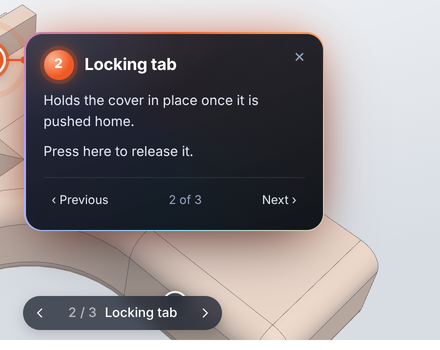
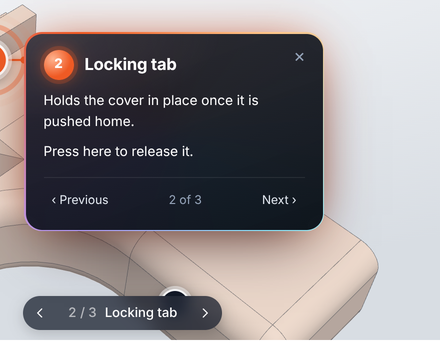
Add seven marker themes and make card text crisp white
New themes, each with its own markers, card, marker bar and entrance:
- fpv: quadcopter goggle on-screen display, blinking REC, signal glitch
- avionics: fixed-wing head-up display with a moving heading tape
- rover: ground vehicle, safety yellow, diamond plate, running tread
- thermal: ironbow thermal camera palette with hot-spot markers
- blueprint: engineering drawing with balloon callouts
- carbon: racing drone carbon fibre and red
- datasheet: black and amber with spaced monospace labels and an
  "F.01" index, after a product datasheet; --sv-datasheet-font sets the
  heading font

Description text on every dark card is now pure white without glows,
and cards use antialiased font rendering, so text stays crisp. The
README gallery and the demo's style switcher include all eleven themes.

Claude-Session: https://claude.ai/code/session_01VoExV5wzv8fyzTPo7h5v6t

diff --git a/step-viewer.js b/step-viewer.js
@@ -73,7 +73,7 @@
     pivot: 'rotate',       // centre of rotation indicator: 'rotate' (while turning), 'always' or 'off'
     markers: null,         // hotspots: URL of a JSON file, or an array (see README)
     editor: false,         // marker editor: click the model to place markers and copy their JSON
-    theme: 'default',      // look of markers and cards: default | digital | military | agricultural
+    theme: 'default',      // markers and cards: default | digital | military | agricultural | fpv | avionics | rover | thermal | blueprint | carbon | datasheet
   };
   // Site-wide defaults, e.g. window.StepViewerConfig = { defaults: { download: false } }
   if (config.defaults) Object.assign(DEFAULTS, config.defaults);
@@ -395,6 +395,272 @@
 .sv-theme-agricultural .sv-overlay .sv-leader-end{fill:#d9a441}
 @keyframes sv-ag-in{0%{opacity:0;transform:translateY(34px) scale(.3) rotate(5deg)}55%{opacity:1;transform:translateY(-6px) scale(1.04) rotate(-1deg)}100%{opacity:1;transform:none}}
 @keyframes sv-ag-sun{to{transform:none;opacity:1}}
+/* ---- Theme: fpv (quadcopter goggles: on-screen display over analogue video) ---- */
+.sv-theme-fpv{--sv-accent:#ff3b30}
+.sv-theme-fpv .sv-card{border-radius:4px;padding:1px;background:rgba(255,255,255,.45);box-shadow:0 10px 30px -10px rgba(0,0,0,.6);
+  font-family:ui-monospace,SFMono-Regular,Menlo,Consolas,monospace;animation:sv-fpv-in .6s steps(1,end) both}
+.sv-theme-fpv .sv-card.sv-out{animation:sv-fpv-out .2s steps(2) both}
+.sv-theme-fpv .sv-card-body{border-radius:3px;padding:18px 18px 14px;color:#fff;
+  text-shadow:1px 1px 0 #000,-1px -1px 0 #000,1px -1px 0 #000,-1px 1px 0 #000;
+  background:repeating-linear-gradient(0deg,rgba(0,0,0,.28) 0 1px,transparent 1px 3px),
+    repeating-conic-gradient(rgba(255,255,255,.035) 0 25%,transparent 0 50%) 0 0/3px 3px,
+    linear-gradient(160deg,rgba(40,48,56,.72),rgba(8,10,12,.78));
+  -webkit-backdrop-filter:blur(3px) saturate(.6);backdrop-filter:blur(3px) saturate(.6)}
+.sv-theme-fpv .sv-card-body::before{content:"\\25CF  REC";inset:auto;top:12px;right:42px;width:auto;height:auto;transform:none;background:none;
+  color:#ff3b30;font:700 11px/1 ui-monospace,Menlo,Consolas,monospace;letter-spacing:.08em;animation:sv-blink 1.2s steps(1) infinite}
+.sv-theme-fpv .sv-card-body::after{content:"";position:absolute;inset:6px;pointer-events:none;opacity:.85;
+  background:linear-gradient(#fff,#fff) 0 0/12px 2px,linear-gradient(#fff,#fff) 0 0/2px 12px,
+    linear-gradient(#fff,#fff) 100% 0/12px 2px,linear-gradient(#fff,#fff) 100% 0/2px 12px,
+    linear-gradient(#fff,#fff) 0 100%/12px 2px,linear-gradient(#fff,#fff) 0 100%/2px 12px,
+    linear-gradient(#fff,#fff) 100% 100%/12px 2px,linear-gradient(#fff,#fff) 100% 100%/2px 12px;background-repeat:no-repeat;
+  filter:drop-shadow(1px 1px 0 #000)}
+.sv-theme-fpv .sv-card-head{padding-right:96px}
+.sv-theme-fpv .sv-card-num{border-radius:3px;width:34px;height:24px;font-size:0;background:rgba(0,0,0,.35);box-shadow:0 0 0 2px #fff,0 0 0 3px #000}
+.sv-theme-fpv .sv-card-num::after{content:attr(data-ref);font:700 13px/1 ui-monospace,Menlo,Consolas,monospace;color:#fff}
+.sv-theme-fpv .sv-card h3{font-size:15px;text-transform:uppercase;letter-spacing:.06em;color:#fff}
+.sv-theme-fpv .sv-card-meta{display:block;margin-top:8px;font-size:11px;letter-spacing:.04em;color:#e5e7eb}
+.sv-theme-fpv .sv-card-meta::before{content:"\\2316  "}
+.sv-theme-fpv .sv-card-text{color:#fff;font-size:13px}
+.sv-theme-fpv .sv-card-text a{color:#7dd3fc}
+.sv-theme-fpv .sv-card-close{color:#fff;border-radius:3px}
+.sv-theme-fpv .sv-card-close:hover{background:#ff3b30}
+.sv-theme-fpv .sv-card-foot{border-top:1px dashed rgba(255,255,255,.45);color:#d1d5db;text-transform:uppercase;font-size:11px;letter-spacing:.06em}
+.sv-theme-fpv .sv-card-foot button{color:#fff;border-radius:3px}
+.sv-theme-fpv .sv-card-foot button:hover{background:#ff3b30}
+.sv-theme-fpv .sv-marker{background:rgba(0,0,0,.45);border:2px solid #fff;color:#fff;font-family:ui-monospace,Menlo,Consolas,monospace;
+  text-shadow:1px 1px 0 #000;box-shadow:0 0 0 1px #000,0 2px 8px rgba(0,0,0,.5)}
+.sv-theme-fpv .sv-marker:hover,.sv-theme-fpv .sv-marker:focus-visible,.sv-theme-fpv .sv-marker.sv-active{background:#ff3b30}
+.sv-theme-fpv .sv-nav{border-radius:4px;background:rgba(10,12,14,.65);border:1px solid rgba(255,255,255,.45);font-family:ui-monospace,Menlo,Consolas,monospace;
+  text-shadow:1px 1px 0 #000;text-transform:uppercase;letter-spacing:.05em;font-size:12px}
+.sv-theme-fpv .sv-overlay .sv-leader{stroke:#fff;filter:drop-shadow(1px 1px 0 #000)}
+.sv-theme-fpv .sv-overlay .sv-leader-end{fill:#fff}
+@keyframes sv-fpv-in{0%{opacity:0}8%{opacity:1;transform:translateY(-8px);filter:contrast(3) brightness(1.8) grayscale(1)}
+  16%{opacity:.2;transform:translateX(6px)}24%{opacity:1;transform:none;filter:contrast(2) grayscale(.6)}34%{opacity:.5;transform:skewX(8deg)}
+  44%{opacity:1;transform:none;filter:none}58%{opacity:.75}66%{opacity:1}100%{opacity:1;transform:none;filter:none}}
+@keyframes sv-fpv-out{50%{opacity:.4;transform:translateX(-6px)}to{opacity:0}}
+/* ---- Theme: avionics (fixed-wing head-up display) ---- */
+.sv-theme-avionics{--sv-accent:#3dff7a}
+.sv-theme-avionics .sv-btn[aria-pressed="true"],.sv-theme-avionics .sv-btn[aria-expanded="true"]{color:#00200b}
+.sv-theme-avionics .sv-card{border-radius:0;padding:0;background:none;box-shadow:none;transform-origin:50% 50%!important;
+  font-family:ui-monospace,SFMono-Regular,Menlo,Consolas,monospace;filter:drop-shadow(0 0 6px rgba(61,255,122,.35));animation:sv-hud-in .7s cubic-bezier(.5,0,.2,1) both}
+.sv-theme-avionics .sv-card.sv-out{animation:sv-hud-out .25s ease-in both}
+.sv-theme-avionics .sv-card-body{border-radius:0;padding:34px 20px 16px;color:#c6ffd8;text-shadow:0 0 6px rgba(61,255,122,.55);
+  background:linear-gradient(180deg,rgba(0,24,10,.7),rgba(0,24,10,.5));-webkit-backdrop-filter:blur(5px);backdrop-filter:blur(5px)}
+.sv-theme-avionics .sv-card-body::before{inset:0 30px auto 30px;top:6px;height:16px;transform:none;opacity:.9;
+  background:repeating-linear-gradient(90deg,#3dff7a 0 1.5px,transparent 1.5px 60px) 0 100%/60px 16px repeat-x,
+    repeating-linear-gradient(90deg,#3dff7a 0 1.5px,transparent 1.5px 12px) 0 100%/12px 7px repeat-x;
+  -webkit-mask:linear-gradient(90deg,transparent,#000 20%,#000 80%,transparent);mask:linear-gradient(90deg,transparent,#000 20%,#000 80%,transparent);
+  animation:sv-hud-tape 7s linear infinite}
+.sv-theme-avionics .sv-card-body::after{content:"";position:absolute;inset:0;pointer-events:none;
+  background:linear-gradient(#3dff7a,#3dff7a) 0 0/18px 2px,linear-gradient(#3dff7a,#3dff7a) 0 0/2px 18px,
+    linear-gradient(#3dff7a,#3dff7a) 100% 0/18px 2px,linear-gradient(#3dff7a,#3dff7a) 100% 0/2px 18px,
+    linear-gradient(#3dff7a,#3dff7a) 0 100%/18px 2px,linear-gradient(#3dff7a,#3dff7a) 0 100%/2px 18px,
+    linear-gradient(#3dff7a,#3dff7a) 100% 100%/18px 2px,linear-gradient(#3dff7a,#3dff7a) 100% 100%/2px 18px,
+    linear-gradient(#3dff7a,#3dff7a) 50% 22px/2px 8px;background-repeat:no-repeat}
+.sv-theme-avionics .sv-card-num{border-radius:1px;width:22px;height:22px;margin:0 4px;font-size:0;background:transparent;transform:rotate(45deg);
+  box-shadow:0 0 0 2px #3dff7a,0 0 10px rgba(61,255,122,.6)}
+.sv-theme-avionics .sv-card-num::after{content:attr(data-ref);transform:rotate(-45deg);font:700 11px/1 ui-monospace,Menlo,Consolas,monospace;color:#3dff7a}
+.sv-theme-avionics .sv-card h3{color:#3dff7a;text-transform:uppercase;letter-spacing:.12em;font-size:15px}
+.sv-theme-avionics .sv-card-meta{display:block;margin-top:8px;font-size:11px;letter-spacing:.05em;color:#7dffa6}
+.sv-theme-avionics .sv-card-meta::before{content:"WPT \\25B8  "}
+.sv-theme-avionics .sv-card-text{color:#c6ffd8;font-size:13px}
+.sv-theme-avionics .sv-card-text a{color:#a7f3ff}
+.sv-theme-avionics .sv-card-close{top:30px;color:#3dff7a;border-radius:0}
+.sv-theme-avionics .sv-card-close:hover{background:#3dff7a;color:#00200b;text-shadow:none}
+.sv-theme-avionics .sv-card-foot{border-top:1px solid rgba(61,255,122,.4);color:#7dffa6;text-transform:uppercase;font-size:11px;letter-spacing:.08em}
+.sv-theme-avionics .sv-card-foot button{color:#3dff7a;border-radius:0}
+.sv-theme-avionics .sv-card-foot button:hover{background:#3dff7a;color:#00200b;text-shadow:none}
+.sv-theme-avionics .sv-reveal{animation-delay:calc(.4s + var(--d,0) * 90ms)}
+.sv-theme-avionics .sv-marker{border-radius:2px;background:rgba(0,24,10,.6);border:2px solid #3dff7a;color:#3dff7a;font-family:ui-monospace,Menlo,Consolas,monospace;
+  box-shadow:0 0 10px rgba(61,255,122,.6);text-shadow:0 0 4px rgba(61,255,122,.8)}
+.sv-theme-avionics .sv-marker:hover,.sv-theme-avionics .sv-marker:focus-visible,.sv-theme-avionics .sv-marker.sv-active{background:#3dff7a;color:#00200b;text-shadow:none}
+.sv-theme-avionics .sv-marker.sv-active::before,.sv-theme-avionics .sv-marker.sv-active::after{border-radius:2px}
+.sv-theme-avionics .sv-nav{border-radius:0;background:rgba(0,24,10,.75);color:#3dff7a;border:1px solid rgba(61,255,122,.6);font-family:ui-monospace,Menlo,Consolas,monospace;
+  text-transform:uppercase;letter-spacing:.08em;font-size:12px;text-shadow:0 0 6px rgba(61,255,122,.6)}
+.sv-theme-avionics .sv-nav button{border-radius:0}
+.sv-theme-avionics .sv-overlay .sv-leader{filter:drop-shadow(0 0 4px #3dff7a)}
+@keyframes sv-hud-in{0%{opacity:0;transform:scale(.04,.02)}30%{opacity:1;transform:scale(1,.02)}38%{opacity:.4}44%{opacity:1;transform:scale(1,.02)}100%{opacity:1;transform:none}}
+@keyframes sv-hud-out{to{opacity:0;transform:scale(1,.02)}}
+@keyframes sv-hud-tape{to{background-position:-60px 100%,-60px 100%}}
+/* ---- Theme: rover (unmanned ground vehicle) ---- */
+.sv-theme-rover{--sv-accent:#ffc400}
+.sv-theme-rover .sv-btn[aria-pressed="true"],.sv-theme-rover .sv-btn[aria-expanded="true"]{color:#1a1a1a}
+.sv-theme-rover .sv-card{border-radius:12px 12px 6px 6px;padding:2.5px;background:#ffc400;
+  box-shadow:0 18px 36px -14px rgba(0,0,0,.6),0 0 0 1px #1a1a1a;animation:sv-ugv-in .75s cubic-bezier(.2,.9,.3,1) both}
+.sv-theme-rover .sv-card.sv-out{animation:sv-ugv-out .25s ease-in both}
+.sv-theme-rover .sv-card-body{border-radius:10px 10px 4px 4px;padding:20px 20px 34px;color:#e5e7eb;
+  background:repeating-linear-gradient(45deg,rgba(255,255,255,.035) 0 3px,transparent 3px 14px),
+    repeating-linear-gradient(-45deg,rgba(255,255,255,.035) 0 3px,transparent 3px 14px),linear-gradient(180deg,#30343a,#1d2024);
+  -webkit-backdrop-filter:none;backdrop-filter:none}
+.sv-theme-rover .sv-card-body::before{inset:0;transform:none;animation:none;
+  background:radial-gradient(circle at 9px 9px,#a3a9b1 2.5px,#3a3f46 3px,transparent 3.5px),radial-gradient(circle at calc(100% - 9px) 9px,#a3a9b1 2.5px,#3a3f46 3px,transparent 3.5px)}
+.sv-theme-rover .sv-card-body::after{content:"";position:absolute;left:0;right:0;bottom:0;height:16px;pointer-events:none;border-top:2px solid #111;
+  background:repeating-linear-gradient(90deg,#4b5057 0 9px,#1f2226 9px 12px) 0 0/12px 100% repeat-x,#2a2d31;animation:sv-ugv-tread .9s linear infinite}
+.sv-theme-rover .sv-card-num{border-radius:0;width:32px;height:28px;background:#ffc400;color:#1a1a1a;box-shadow:none;
+  clip-path:polygon(25% 0,75% 0,100% 50%,75% 100%,25% 100%,0 50%)}
+.sv-theme-rover .sv-card h3{font-family:"Arial Narrow","Roboto Condensed","Helvetica Neue",Arial,sans-serif;font-weight:800;font-size:18px;
+  text-transform:uppercase;letter-spacing:.04em;color:#ffc400}
+.sv-theme-rover .sv-card-meta{display:block;margin-top:8px;font:600 11px/1.3 ui-monospace,Menlo,Consolas,monospace;color:#ffd84d;opacity:.85}
+.sv-theme-rover .sv-card-meta::before{content:"UNIT \\25B8  "}
+.sv-theme-rover .sv-card-text{color:#e5e7eb}
+.sv-theme-rover .sv-card-text a{color:#ffc400}
+.sv-theme-rover .sv-card-close{color:#ffc400}
+.sv-theme-rover .sv-card-close:hover{background:#ffc400;color:#1a1a1a}
+.sv-theme-rover .sv-card-foot{border-top:2px solid #3a3f46;color:#9ca3af;text-transform:uppercase;font-size:11px;letter-spacing:.08em}
+.sv-theme-rover .sv-card-foot button{color:#ffc400;font-weight:700}
+.sv-theme-rover .sv-card-foot button:hover{background:#ffc400;color:#1a1a1a}
+.sv-theme-rover .sv-marker{border-radius:7px;background:#ffc400;border:2px solid #1a1a1a;color:#1a1a1a;box-shadow:0 0 0 2px #ffc400,0 4px 10px rgba(0,0,0,.45)}
+.sv-theme-rover .sv-marker:hover,.sv-theme-rover .sv-marker:focus-visible,.sv-theme-rover .sv-marker.sv-active{background:#1a1a1a;color:#ffc400;border-color:#ffc400}
+.sv-theme-rover .sv-marker.sv-active::before,.sv-theme-rover .sv-marker.sv-active::after{border-radius:7px}
+.sv-theme-rover .sv-nav{border-radius:8px;background:#1d2024;color:#ffc400;border:2px solid #ffc400;text-transform:uppercase;letter-spacing:.06em;font-size:12px;font-weight:700}
+.sv-theme-rover .sv-nav button:hover{background:rgba(255,196,0,.2)}
+.sv-theme-rover .sv-overlay .sv-leader{filter:none;stroke-width:2.5}
+@keyframes sv-ugv-in{0%{opacity:0;transform:translateX(-70px)}55%{opacity:1;transform:translateX(8px)}70%{transform:translateX(-3px) rotate(-1.2deg)}85%{transform:translateX(1px) rotate(.4deg)}100%{opacity:1;transform:none}}
+@keyframes sv-ugv-out{to{opacity:0;transform:translateX(40px)}}
+@keyframes sv-ugv-tread{to{background-position:12px 0,0 0}}
+/* ---- Theme: thermal (infrared camera, ironbow palette) ---- */
+.sv-theme-thermal{--sv-accent:#ff7a00}
+.sv-theme-thermal .sv-btn[aria-pressed="true"],.sv-theme-thermal .sv-btn[aria-expanded="true"]{color:#1a0010}
+.sv-theme-thermal .sv-card{border-radius:12px;padding:2px;background:linear-gradient(90deg,#1b0036,#5b0a8f,#b3006b,#ff3d00,#ff9f00,#ffe8a0,#ff9f00,#ff3d00,#b3006b,#5b0a8f,#1b0036) 0 0/300% 100%;
+  box-shadow:0 20px 50px -18px rgba(90,0,60,.7),0 0 40px -12px #ff6a00;animation:sv-ir-in .9s ease-out both,sv-ir-flow 6s linear infinite}
+.sv-theme-thermal .sv-card.sv-out{animation:sv-ir-out .25s ease-in both}
+.sv-theme-thermal .sv-card-body{border-radius:10px;padding:16px 26px 18px 18px;color:#ffe9d6;
+  background:radial-gradient(120% 90% at 85% 0%,rgba(255,110,0,.2),transparent 55%),radial-gradient(90% 70% at 0% 100%,rgba(120,0,140,.35),transparent 60%),#12051f;
+  -webkit-backdrop-filter:none;backdrop-filter:none}
+.sv-theme-thermal .sv-card-body::before{inset:12px 8px 12px auto;width:6px;height:auto;transform:none;animation:none;border-radius:3px;
+  background:linear-gradient(to top,#1b0036,#5b0a8f,#b3006b,#ff3d00,#ff9f00,#fff6c8);box-shadow:0 0 8px rgba(255,120,0,.5)}
+.sv-theme-thermal .sv-card-num{background:radial-gradient(circle at 40% 35%,#fffbe0,#ffc400 30%,#ff3d00 60%,#7a0a7a 100%);color:#1a0010;
+  box-shadow:0 0 0 2px rgba(255,255,255,.85),0 0 18px rgba(255,120,0,.9)}
+.sv-theme-thermal .sv-card h3{color:#fff;text-shadow:0 0 14px rgba(255,120,0,.65)}
+.sv-theme-thermal .sv-card-meta{display:block;margin-top:8px;font:600 11px/1.3 ui-monospace,Menlo,Consolas,monospace;color:#ffb36b}
+.sv-theme-thermal .sv-card-meta::before{content:"\\25CE  SPOT \\25B8  "}
+.sv-theme-thermal .sv-card-text{color:#ffe9d6}
+.sv-theme-thermal .sv-card-text a{color:#ffc46b}
+.sv-theme-thermal .sv-card-close{right:20px;color:#ffb36b}
+.sv-theme-thermal .sv-card-close:hover{background:#ff6a00;color:#1a0010}
+.sv-theme-thermal .sv-card-foot{border-top:1px solid rgba(255,140,0,.28);color:#c9a0b8}
+.sv-theme-thermal .sv-card-foot button{color:#ffd0a0}
+.sv-theme-thermal .sv-card-foot button:hover{background:#ff6a00;color:#1a0010}
+.sv-theme-thermal .sv-marker{background:radial-gradient(circle at 40% 35%,#fffbe0,#ffc400 30%,#ff3d00 62%,#7a0a7a 100%);border:2px solid #fff;color:#1a0010;
+  box-shadow:0 0 16px rgba(255,110,0,.9),0 0 0 1px rgba(60,0,40,.5)}
+.sv-theme-thermal .sv-marker:hover,.sv-theme-thermal .sv-marker:focus-visible,.sv-theme-thermal .sv-marker.sv-active{background:radial-gradient(circle at 40% 35%,#fff,#fff3b0 35%,#ffb000 70%,#ff3d00 100%)}
+.sv-theme-thermal .sv-nav{background:#12051f;color:#ffe9d6;box-shadow:inset 0 -2px 0 #ff6a00,0 4px 14px rgba(90,0,60,.4)}
+.sv-theme-thermal .sv-nav button:hover{background:rgba(255,110,0,.25)}
+.sv-theme-thermal .sv-overlay .sv-leader{filter:drop-shadow(0 0 4px #ff6a00)}
+.sv-theme-thermal .sv-overlay .sv-leader-end{fill:#ffe8a0}
+@keyframes sv-ir-in{0%{opacity:0;transform:scale(1.15);filter:blur(16px) saturate(3) hue-rotate(-70deg)}55%{opacity:1;filter:blur(3px) saturate(1.6) hue-rotate(-20deg)}100%{opacity:1;transform:none;filter:none}}
+@keyframes sv-ir-out{to{opacity:0;filter:blur(10px) hue-rotate(60deg)}}
+@keyframes sv-ir-flow{to{background-position:100% 0}}
+/* ---- Theme: blueprint (engineering drawing) ---- */
+.sv-theme-blueprint{--sv-accent:#1d5fbf}
+.sv-theme-blueprint .sv-card{border-radius:2px;padding:0;background:#0f4c97;box-shadow:0 18px 40px -16px rgba(5,25,60,.65);transform-origin:0 50%!important;
+  animation:sv-bp-in .8s cubic-bezier(.6,0,.2,1) both}
+.sv-theme-blueprint .sv-card.sv-out{animation:sv-bp-out .3s ease-in both}
+.sv-theme-blueprint .sv-card-body{border-radius:2px;padding:20px 22px 18px;color:#e6efff;
+  background:linear-gradient(rgba(255,255,255,.1) 1px,transparent 1px) 0 0/20px 20px,linear-gradient(90deg,rgba(255,255,255,.1) 1px,transparent 1px) 0 0/20px 20px,
+    linear-gradient(rgba(255,255,255,.045) 1px,transparent 1px) 0 0/5px 5px,linear-gradient(90deg,rgba(255,255,255,.045) 1px,transparent 1px) 0 0/5px 5px,#0f4c97;
+  box-shadow:inset 0 0 0 6px #0f4c97,inset 0 0 0 7.5px rgba(255,255,255,.9),inset 0 0 0 10px #0f4c97,inset 0 0 0 11px rgba(255,255,255,.45);
+  -webkit-backdrop-filter:none;backdrop-filter:none}
+.sv-theme-blueprint .sv-card-body::before{display:none}
+.sv-theme-blueprint .sv-card-num{width:30px;height:30px;background:#0f4c97;color:#fff;font:600 13px/1 "Century Gothic","Futura","Avenir Next",sans-serif;
+  box-shadow:0 0 0 1.5px #fff}
+.sv-theme-blueprint .sv-card h3{font-family:"Century Gothic","Futura","Avenir Next","Segoe UI",sans-serif;font-weight:600;font-size:15px;text-transform:uppercase;letter-spacing:.14em;color:#fff}
+.sv-theme-blueprint .sv-card-meta{display:block;margin-top:10px;padding:4px 8px;border:1px solid rgba(255,255,255,.7);font:500 11px/1.3 ui-monospace,Menlo,Consolas,monospace;
+  color:#dbe8ff;letter-spacing:.04em}
+.sv-theme-blueprint .sv-card-meta::before{content:"DWG REF  "}
+.sv-theme-blueprint .sv-card-text{color:#e6efff;font-size:13.5px}
+.sv-theme-blueprint .sv-card-text a{color:#fff;text-decoration:underline}
+.sv-theme-blueprint .sv-card-close{top:14px;right:14px;color:#dbe8ff;border-radius:2px}
+.sv-theme-blueprint .sv-card-close:hover{background:#fff;color:#0f4c97}
+.sv-theme-blueprint .sv-card-foot{border-top:1px solid rgba(255,255,255,.55);color:#b9cff5;text-transform:uppercase;font-size:11px;letter-spacing:.12em}
+.sv-theme-blueprint .sv-card-foot button{color:#fff;border-radius:2px;letter-spacing:.1em}
+.sv-theme-blueprint .sv-card-foot button:hover{background:#fff;color:#0f4c97}
+.sv-theme-blueprint .sv-marker{background:#fff;border:2px solid #0f4c97;color:#0f4c97;font-family:"Century Gothic","Futura","Avenir Next",sans-serif;font-weight:600;
+  box-shadow:0 0 0 2px rgba(255,255,255,.8),0 3px 10px rgba(5,25,60,.4)}
+.sv-theme-blueprint .sv-marker:hover,.sv-theme-blueprint .sv-marker:focus-visible,.sv-theme-blueprint .sv-marker.sv-active{background:#0f4c97;color:#fff;border-color:#fff}
+.sv-theme-blueprint .sv-nav{border-radius:2px;background:#0f4c97;color:#fff;border:1px solid rgba(255,255,255,.8);text-transform:uppercase;letter-spacing:.1em;font-size:12px}
+.sv-theme-blueprint .sv-nav .sv-nav-title span{opacity:.7}
+.sv-theme-blueprint .sv-overlay .sv-leader{stroke:#0f4c97;stroke-width:1.5;filter:none}
+.sv-theme-blueprint .sv-overlay .sv-leader-end{fill:#0f4c97}
+@keyframes sv-bp-in{0%{opacity:0;clip-path:inset(0 100% 0 0)}10%{opacity:1}100%{opacity:1;clip-path:inset(0)}}
+@keyframes sv-bp-out{to{opacity:0;clip-path:inset(0 0 0 100%)}}
+/* ---- Theme: carbon (racing drone: carbon fibre and red) ---- */
+.sv-theme-carbon{--sv-accent:#ff2d3d}
+.sv-theme-carbon .sv-card{border-radius:14px 3px 14px 3px;padding:1.5px;background:linear-gradient(135deg,#ff2d3d,#5a0a12 40%,#ff2d3d 62%,#3a3a3a);
+  box-shadow:0 22px 46px -18px rgba(0,0,0,.75),0 0 30px -12px #ff2d3d;animation:sv-cf-in .6s cubic-bezier(.2,.9,.25,1) both}
+.sv-theme-carbon .sv-card.sv-out{animation:sv-cf-out .22s ease-in both}
+.sv-theme-carbon .sv-card-body{border-radius:12.5px 2px 12.5px 2px;padding:18px 20px 18px;color:#d6d6d6;
+  background:linear-gradient(27deg,#151515 5px,transparent 5px) 0 5px,linear-gradient(207deg,#151515 5px,transparent 5px) 10px 0,
+    linear-gradient(27deg,#232323 5px,transparent 5px) 0 10px,linear-gradient(207deg,#232323 5px,transparent 5px) 10px 5px,
+    linear-gradient(90deg,#1b1b1b 10px,transparent 10px),linear-gradient(#1d1d1d 25%,#1a1a1a 25%,#1a1a1a 50%,transparent 50%,transparent 75%,#242424 75%,#242424);
+  background-color:#131313;background-size:20px 20px;-webkit-backdrop-filter:none;backdrop-filter:none}
+.sv-theme-carbon .sv-card-body::before{background:linear-gradient(115deg,transparent 30%,rgba(255,255,255,.16) 45%,rgba(255,255,255,.03) 55%,transparent 65%)}
+.sv-theme-carbon .sv-card-body::after{content:"";position:absolute;left:0;top:0;width:90px;height:4px;pointer-events:none;
+  background:linear-gradient(90deg,#ff2d3d 0 30px,transparent 30px 36px,#ff2d3d 36px 52px,transparent 52px 58px,#ff2d3d 58px 64px,transparent 64px)}
+.sv-theme-carbon .sv-card-num{border-radius:4px;width:34px;height:26px;background:#ff2d3d;transform:skewX(-14deg);box-shadow:0 0 16px rgba(255,45,61,.6)}
+.sv-theme-carbon .sv-card h3{font-family:"Arial Black","Helvetica Neue",Arial,sans-serif;font-style:italic;font-weight:900;font-size:17px;text-transform:uppercase;letter-spacing:.02em;color:#fff}
+.sv-theme-carbon .sv-card-meta{display:block;margin-top:8px;font:600 11px/1.3 ui-monospace,Menlo,Consolas,monospace;color:#ff6b76}
+.sv-theme-carbon .sv-card-meta::before{content:"\\25C6  "}
+.sv-theme-carbon .sv-card-text{color:#d6d6d6}
+.sv-theme-carbon .sv-card-text a{color:#ff6b76}
+.sv-theme-carbon .sv-card-close:hover{background:#ff2d3d;color:#fff}
+.sv-theme-carbon .sv-card-foot{border-top:1px solid rgba(255,255,255,.1);color:#8a8a8a;font-style:italic;text-transform:uppercase;font-size:11px;letter-spacing:.06em}
+.sv-theme-carbon .sv-card-foot button{color:#fff;font-weight:700}
+.sv-theme-carbon .sv-card-foot button:hover{background:#ff2d3d}
+.sv-theme-carbon .sv-marker{background:#ff2d3d;border:2px solid #fff;color:#fff;font-style:italic;box-shadow:0 0 0 3px rgba(0,0,0,.55),0 4px 14px rgba(255,45,61,.55)}
+.sv-theme-carbon .sv-marker:hover,.sv-theme-carbon .sv-marker:focus-visible,.sv-theme-carbon .sv-marker.sv-active{background:#fff;color:#ff2d3d;border-color:#ff2d3d}
+.sv-theme-carbon .sv-nav{border-radius:10px 2px 10px 2px;background:#141414;color:#fff;box-shadow:inset 3px 0 0 #ff2d3d,0 4px 14px rgba(0,0,0,.4);font-style:italic;text-transform:uppercase;font-size:12px;font-weight:700}
+.sv-theme-carbon .sv-nav button:hover{background:rgba(255,45,61,.3)}
+@keyframes sv-cf-in{0%{opacity:0;transform:translateX(50px) skewX(-14deg);filter:blur(8px)}60%{opacity:1;transform:translateX(-5px) skewX(3deg);filter:none}100%{opacity:1;transform:none;filter:none}}
+@keyframes sv-cf-out{to{opacity:0;transform:translateX(-40px) skewX(10deg);filter:blur(4px)}}
+/* ---- Theme: datasheet (black and amber, spaced monospace labels, like a product datasheet) ---- */
+.sv-theme-datasheet{--sv-accent:#e8b23a}
+.sv-theme-datasheet .sv-btn[aria-pressed="true"],.sv-theme-datasheet .sv-btn[aria-expanded="true"]{color:#0a0a0a}
+.sv-theme-datasheet .sv-card{border-radius:2px;padding:1px;background:#262626;width:min(320px,calc(100% - 20px));
+  box-shadow:0 26px 52px -20px rgba(0,0,0,.75);animation:sv-ds-in .65s cubic-bezier(.2,.8,.2,1) both}
+.sv-theme-datasheet .sv-card.sv-out{animation:sv-ds-out .22s ease-in both}
+.sv-theme-datasheet .sv-card-body{display:flex;flex-direction:column;border-radius:1px;padding:18px 22px 16px;color:#fff;
+  background:radial-gradient(90% 70% at 100% 0%,rgba(232,178,58,.09),transparent 60%),#0a0a0a;-webkit-backdrop-filter:none;backdrop-filter:none}
+.sv-theme-datasheet .sv-card-body::before{display:none}
+.sv-theme-datasheet .sv-card-img{order:-2}
+.sv-theme-datasheet .sv-card-meta{display:block;order:-1;margin:0 26px 12px 0;font:500 10px/1.5 ui-monospace,SFMono-Regular,Menlo,Consolas,monospace;
+  letter-spacing:.2em;text-transform:uppercase;color:#e8b23a}
+.sv-theme-datasheet .sv-card-head{gap:10px;padding:12px 0 0;border-top:2px solid #e8b23a;align-items:baseline}
+.sv-theme-datasheet .sv-card-num{display:inline-block;width:auto;height:auto;border-radius:0;background:none;box-shadow:none;font-size:0}
+.sv-theme-datasheet .sv-card-num::before{content:"F." attr(data-ref);font:500 11px/1 ui-monospace,SFMono-Regular,Menlo,Consolas,monospace;letter-spacing:.1em;color:#e8b23a}
+.sv-theme-datasheet .sv-card h3{font-family:var(--sv-datasheet-font,"Michroma","Eurostile","Microgramma","Bank Gothic","Rajdhani",system-ui,-apple-system,"Segoe UI",Roboto,sans-serif);
+  font-size:19px;font-weight:700;letter-spacing:-.005em;color:#fff}
+.sv-theme-datasheet .sv-card-text{margin-top:10px;font-size:13.5px;line-height:1.6}
+.sv-theme-datasheet .sv-card-text a{color:#e8b23a}
+.sv-theme-datasheet .sv-card-close{top:12px;right:12px;border-radius:2px;color:#8c8c8c}
+.sv-theme-datasheet .sv-card-close:hover{background:#e8b23a;color:#0a0a0a}
+.sv-theme-datasheet .sv-card-foot{margin-top:16px;padding-top:10px;border-top:1px solid #262626;color:#8c8c8c;
+  font:500 10px/1 ui-monospace,SFMono-Regular,Menlo,Consolas,monospace;letter-spacing:.18em;text-transform:uppercase}
+.sv-theme-datasheet .sv-card-foot button{color:#fff;border-radius:2px;letter-spacing:.18em}
+.sv-theme-datasheet .sv-card-foot button:hover{background:#e8b23a;color:#0a0a0a}
+.sv-theme-datasheet .sv-card [contenteditable]{box-shadow:0 0 0 1px #333}
+.sv-theme-datasheet .sv-marker{border-radius:3px;background:#0a0a0a;border:1.5px solid #e8b23a;color:#fff;font-family:ui-monospace,SFMono-Regular,Menlo,Consolas,monospace;
+  font-weight:500;box-shadow:0 0 0 2px rgba(255,255,255,.55),0 4px 12px rgba(0,0,0,.45)}
+.sv-theme-datasheet .sv-marker:hover,.sv-theme-datasheet .sv-marker:focus-visible,.sv-theme-datasheet .sv-marker.sv-active{background:#e8b23a;color:#0a0a0a;border-color:#0a0a0a}
+.sv-theme-datasheet .sv-marker.sv-active::before,.sv-theme-datasheet .sv-marker.sv-active::after{border-radius:3px}
+.sv-theme-datasheet .sv-nav{border-radius:2px;background:#0a0a0a;color:#fff;border:1px solid #262626;font:500 11px/1 ui-monospace,SFMono-Regular,Menlo,Consolas,monospace;
+  letter-spacing:.16em;text-transform:uppercase}
+.sv-theme-datasheet .sv-nav button{border-radius:2px}
+.sv-theme-datasheet .sv-nav button:hover{background:rgba(232,178,58,.2)}
+.sv-theme-datasheet .sv-nav .sv-nav-title span{color:#e8b23a;opacity:1}
+.sv-theme-datasheet .sv-overlay .sv-leader{stroke-width:1.5;filter:none}
+@keyframes sv-ds-in{0%{opacity:0;transform:translateY(10px);clip-path:inset(0 0 100% 0)}100%{opacity:1;transform:none;clip-path:inset(0)}}
+@keyframes sv-ds-out{to{opacity:0;transform:translateY(6px)}}
+.sv-card{-webkit-font-smoothing:antialiased;-moz-osx-font-smoothing:grayscale}
+/* Description text: pure white with no glow on every dark card, so it stays crisp. */
+.sv-card .sv-card-text,.sv-theme-digital .sv-card-text,.sv-theme-military .sv-card-text,.sv-theme-fpv .sv-card-text,.sv-theme-avionics .sv-card-text,
+.sv-theme-rover .sv-card-text,.sv-theme-thermal .sv-card-text,.sv-theme-blueprint .sv-card-text,.sv-theme-carbon .sv-card-text,.sv-theme-datasheet .sv-card-text{color:#fff;text-shadow:none}
+.sv-theme-agricultural .sv-card-text{color:#3b3222}
+.sv-theme-fpv .sv-card-body{text-shadow:0 1px 0 rgba(0,0,0,.85)}
+.sv-theme-avionics .sv-card-body{text-shadow:none}
+.sv-theme-avionics .sv-card h3{text-shadow:0 0 3px rgba(61,255,122,.45)}
+.sv-theme-digital .sv-card h3{text-shadow:0 0 4px rgba(0,255,156,.5)}
+.sv-theme-thermal .sv-card h3{text-shadow:0 0 6px rgba(255,120,0,.5)}
 @media (prefers-reduced-motion:reduce){.sv-card-body::after,.sv-card h3::after{animation:none!important}}
 @media (prefers-reduced-motion:reduce){.sv-card,.sv-card-body::before,.sv-reveal,.sv-marker,.sv-marker::before,.sv-marker::after,.sv-overlay .sv-leader{animation:none!important}.sv-overlay .sv-leader{stroke-dashoffset:0}.sv-overlay .sv-leader-end{opacity:1}}
 @media (pointer:coarse){.sv-btn{width:40px;height:40px}.sv-menu button{padding:10px 12px}}
@@ -1569,7 +1835,8 @@
     }
 
     /**
-     * Change the look of markers and their cards: 'default', 'digital', 'military' or 'agricultural'.
+     * Change the look of markers and their cards: 'default', 'digital', 'military', 'agricultural', 'fpv',
+     * 'avionics', 'rover', 'thermal', 'blueprint', 'carbon' or 'datasheet'.
      * Any other name adds the class sv-theme-<name>, for your own CSS.
      */
     setTheme(name) {

diff --git a/index.html b/index.html
@@ -124,6 +124,13 @@
     <button type="button" data-theme-choice="digital" aria-pressed="false">Digital</button>
     <button type="button" data-theme-choice="military" aria-pressed="false">Military</button>
     <button type="button" data-theme-choice="agricultural" aria-pressed="false">Agricultural</button>
+    <button type="button" data-theme-choice="fpv" aria-pressed="false" title="Quadcopter FPV goggles">FPV</button>
+    <button type="button" data-theme-choice="avionics" aria-pressed="false" title="Fixed-wing head-up display">Avionics</button>
+    <button type="button" data-theme-choice="rover" aria-pressed="false" title="Unmanned ground vehicle">Rover</button>
+    <button type="button" data-theme-choice="thermal" aria-pressed="false">Thermal</button>
+    <button type="button" data-theme-choice="blueprint" aria-pressed="false">Blueprint</button>
+    <button type="button" data-theme-choice="carbon" aria-pressed="false">Carbon</button>
+    <button type="button" data-theme-choice="datasheet" aria-pressed="false">Datasheet</button>
   </div>
 
   <div class="step-viewer" id="main-viewer"

diff --git a/README.md b/README.md
@@ -96,7 +96,7 @@ In HTML, `downloadName` becomes `data-download-name` and so on.
 | `editor` | `false` | Marker editor: place markers by clicking and copy their JSON. |
 | `markerSize` | `30` | Marker diameter in pixels. |
 | `pivot` | `rotate` | Crosshair at the centre of rotation: `rotate` (while turning the model), `always` or `off`. |
-| `theme` | `default` | Look of the markers and their cards: `default`, `digital`, `military` or `agricultural`. See [Marker themes](#marker-themes). |
+| `theme` | `default` | Look of the markers and their cards: `default`, `digital`, `military`, `agricultural`, `fpv`, `avionics`, `rover`, `thermal`, `blueprint`, `carbon` or `datasheet`. See [Marker themes](#marker-themes). |
 | `views` | `true` | Show the standard views menu. |
 | `fullscreen` | `true` | Show the fullscreen button. |
 | `info` | `true` | Show the file name and overall size (X × Y × Z). |
@@ -215,7 +215,7 @@ viewer.clearMeasurements();
 viewer.openMarker(0);            // 0-based
 viewer.nextMarker(1);            // or -1 for the previous one
 viewer.closeMarker();
-viewer.setTheme('military');     // default | digital | military | agricultural
+viewer.setTheme('military');     // or any other theme name, see Marker themes
 viewer.setMarkers([...]);
 viewer.getMarkers();             // current markers as plain data
 viewer.download();               // does nothing while downloads are disabled
@@ -282,6 +282,18 @@ Pick a look for the markers, their cards and the marker bar with `data-theme`, t
 | **`military`** | **`agricultural`** |
 | ![Military theme](docs/themes/military.png) | ![Agricultural theme](docs/themes/agricultural.png) |
 | Olive and tan, stencil type, hazard stripe and grid reference; opens like a tactical display. | Cream paper, serif type, leaf-shaped badges; sprouts up from below. |
+| **`fpv`** (quadcopters) | **`avionics`** (fixed-wing) |
+| ![FPV theme](docs/themes/fpv.png) | ![Avionics theme](docs/themes/avionics.png) |
+| FPV goggle on-screen display: outlined white type on analogue video, blinking REC; glitches in like a video signal. | Head-up display in HUD green with a moving heading tape and waypoint badges; boots up from a single line. |
+| **`rover`** (ground vehicles) | **`thermal`** |
+| ![Rover theme](docs/themes/rover.png) | ![Thermal theme](docs/themes/thermal.png) |
+| Safety yellow on diamond plate, rivets, hex-nut badges and a running tank tread; drives in from the side. | Thermal camera ironbow palette with glowing hot-spot markers and a temperature scale; blooms in like heat. |
+| **`blueprint`** | **`carbon`** |
+| ![Blueprint theme](docs/themes/blueprint.png) | ![Carbon theme](docs/themes/carbon.png) |
+| Engineering drawing: grid paper, double frame, balloon callouts and a drawing reference; draws itself in. | Racing drone carbon fibre with red accents and italic racing type; slides in at speed. |
+| **`datasheet`** | |
+| ![Datasheet theme](docs/themes/datasheet.png) | |
+| Product datasheet: black and amber, spaced monospace labels, an amber rule and an "F.01" style index; wipes in like a printed page. Set `--sv-datasheet-font` to use your brand's heading font. | |
 
 Any other name adds the class `sv-theme-<name>` to the viewer, so you can write your own theme in CSS,
 starting from the `.sv-theme-digital` rules in `step-viewer.js`.
